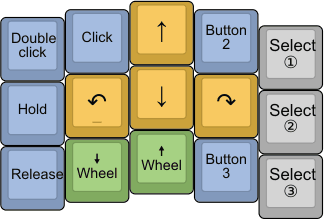
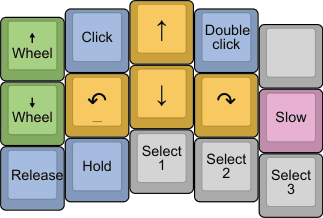
Orbital Mouse: Slow mode key OM_SLOW.

diff --git a/posts/keyboards/orbital-mouse/index.html b/posts/keyboards/orbital-mouse/index.html
@@ -4,7 +4,7 @@
   <meta http-equiv="Content-Type" content="text/html; charset=utf-8" />
   <meta http-equiv="Content-Style-Type" content="text/css" />
   <meta name="viewport" content="width=device-width,initial-scale=1">
-  <meta name="author" content="Pascal Getreuer, 2023-12-31" />
+  <meta name="author" content="Pascal Getreuer, 2023-12-31 (updated 2025-01-02)" />
   <title>Orbital Mouse</title>
   <style type="text/css">code{white-space: pre;}</style>
   <style type="text/css">
@@ -77,6 +77,7 @@ code span.wa { color: #60a0b0; font-weight: bold; font-style: italic; } /* Warni
 <link rel="preconnect" href="https://fonts.googleapis.com">
 <link rel="preconnect" href="https://fonts.gstatic.com" crossorigin>
 <link href="https://fonts.googleapis.com/css2?family=Noto+Serif:wght@350&display=swap" rel="stylesheet">
+<link rel="stylesheet" href="https://fonts.googleapis.com/css2?family=Material+Symbols+Outlined:opsz,wght,FILL,GRAD@20..48,100..700,0..1,-50..200" />
 <script type="text/javascript" src="../../../site.js" ></script>
   <script
   src="https://cdnjs.cloudflare.com/ajax/libs/mathjax/2.7.1/MathJax.js?config=TeX-AMS_CHTML-full"
@@ -93,7 +94,7 @@ code span.wa { color: #60a0b0; font-weight: bold; font-style: italic; } /* Warni
 <div id="content">
 <div id="header">
 <h1 class="title">Orbital Mouse</h1>
-<h2 class="author">Pascal Getreuer, 2023-12-31</h2>
+<h2 class="author">Pascal Getreuer, 2023-12-31 (updated 2025-01-02)</h2>
 </div>
 <div id="TOC">
 <ul>
@@ -105,10 +106,11 @@ id="toc-add-orbital-mouse-to-your-keymap">Add Orbital Mouse to your
 keymap</a></li>
 <li><a href="#keycodes" id="toc-keycodes">Keycodes</a>
 <ul>
-<li><a href="#selected-mouse-button"
-id="toc-selected-mouse-button">Selected mouse button</a></li>
+<li><a href="#slow-mode" id="toc-slow-mode">Slow mode</a></li>
 <li><a href="#mouse-wheel-controls" id="toc-mouse-wheel-controls">Mouse
 wheel controls</a></li>
+<li><a href="#selected-mouse-button"
+id="toc-selected-mouse-button">Selected mouse button</a></li>
 </ul></li>
 <li><a href="#configuration" id="toc-configuration">Configuration</a>
 <ul>
@@ -126,10 +128,10 @@ Keys feature</a> that controls the mouse using keyboard keys. You can
 then avoid switching hands between keyboard and mouse, in theory a
 substantial ergonomic advantage. In reality, this interface is pretty
 awkward.</p>
-<p>This post describes an experiment: Orbital Mouse. I find it is easier
-to control than QMK’s Mouse Keys, or at least it is more fun. To be
-clear, it still pales in comparison to real mouse or trackball
-hardware.</p>
+<p>This post describes Orbital Mouse, an alternative keyboard-based
+mouse scheme. I find it is easier to control than QMK’s Mouse Keys and
+good enough to be useful. To be clear, it still pales in comparison to
+real mouse or trackball hardware.</p>
 <h2 id="what-is-orbital-mouse">What is Orbital Mouse</h2>
 <p>Orbital Mouse is a userspace library that replaces QMK Mouse Keys.
 The pointer moves according to a heading direction. Two keys move
@@ -163,9 +165,9 @@ keymap</h2>
 layout in keymap.c. A description of the keycodes is <a
 href="#keycodes">in the next section</a>. A suggested right-handed
 layout is:</p>
-<div class="sourceCode" id="cb1"><pre class="sourceCode c"><code class="sourceCode c"><span id="cb1-1"><a href="#cb1-1" aria-hidden="true" tabindex="-1"></a>OM_DBLS<span class="op">,</span> OM_BTNS<span class="op">,</span> OM_U   <span class="op">,</span> OM_BTN2<span class="op">,</span> OM_SEL1<span class="op">,</span></span>
-<span id="cb1-2"><a href="#cb1-2" aria-hidden="true" tabindex="-1"></a>OM_HLDS<span class="op">,</span> OM_L   <span class="op">,</span> OM_D   <span class="op">,</span> OM_R   <span class="op">,</span> OM_SEL2<span class="op">,</span></span>
-<span id="cb1-3"><a href="#cb1-3" aria-hidden="true" tabindex="-1"></a>OM_RELS<span class="op">,</span> OM_W_D <span class="op">,</span> OM_W_U <span class="op">,</span> OM_BTN3<span class="op">,</span> OM_SEL3<span class="op">,</span></span></code></pre></div>
+<div class="sourceCode" id="cb1"><pre class="sourceCode c"><code class="sourceCode c"><span id="cb1-1"><a href="#cb1-1" aria-hidden="true" tabindex="-1"></a>OM_W_U <span class="op">,</span> OM_BTNS<span class="op">,</span> OM_U   <span class="op">,</span> OM_DBLS<span class="op">,</span> _______<span class="op">,</span></span>
+<span id="cb1-2"><a href="#cb1-2" aria-hidden="true" tabindex="-1"></a>OM_W_D <span class="op">,</span> OM_L   <span class="op">,</span> OM_D   <span class="op">,</span> OM_R   <span class="op">,</span> OM_SLOW<span class="op">,</span></span>
+<span id="cb1-3"><a href="#cb1-3" aria-hidden="true" tabindex="-1"></a>OM_RELS<span class="op">,</span> OM_HLDS<span class="op">,</span> OM_SEL1<span class="op">,</span> OM_SEL2<span class="op">,</span> OM_SEL3<span class="op">,</span></span></code></pre></div>
 <figure>
 <img src="layout.png" alt="A suggested right-handed layout." />
 <figcaption aria-hidden="true">A suggested right-handed
@@ -228,24 +230,8 @@ there.</p>
 <td>Steer right (clockwise).</td>
 </tr>
 <tr class="odd">
-<td><code>OM_BTNS</code></td>
-<td>Press the selected mouse button.</td>
-</tr>
-<tr class="even">
-<td><code>OM_HLDS</code></td>
-<td>Hold the selected mouse button.</td>
-</tr>
-<tr class="odd">
-<td><code>OM_RELS</code></td>
-<td>Release the selected mouse button.</td>
-</tr>
-<tr class="even">
-<td><code>OM_DBLS</code></td>
-<td>Double click the selected mouse button.</td>
-</tr>
-<tr class="odd">
-<td><code>OM_SEL</code><em>n</em></td>
-<td>Select mouse button <em>n</em>, for <em>n</em> = 1, …, 8.</td>
+<td><code>OM_SLOW</code></td>
+<td>Slow mode. Movement is slower while held.</td>
 </tr>
 <tr class="even">
 <td><code>OM_BTN</code><em>n</em></td>
@@ -272,22 +258,60 @@ there.</p>
 <p>Of course, you don’t have to use all of them in your layout, just use
 what is useful. There are many ways these keys could be arranged in a
 layout. I leave it to you to explore.</p>
-<h3 id="selected-mouse-button">Selected mouse button</h3>
-<p>Keycode <code>OM_BTNS</code> and its companions <code>OM_HLDS</code>,
-<code>OM_RELS</code>, <code>OM_DBLS</code> make use of the “selected”
-mouse button. Initially, mouse button 1 is selected. Keycodes
-<code>OM_SEL1</code> … <code>OM_SEL8</code> set the selected mouse
-button.</p>
-<p><code>OM_HLDS</code> and <code>OM_RELS</code> are useful when a mouse
-button must be held for an extended duration, like click and drag
-inputs. Tapping <code>OM_HLDS</code> holds down the selected mouse
-button. The button is held until <code>OM_RELS</code> is tapped to
-release it.</p>
+<h3 id="slow-mode">Slow mode</h3>
+<p>Keycode <code>OM_SLOW</code> momentarily activates slow mode, aka
+“sniping.” This key is useful for fine adjustments. While held,
+forward/backward movement and turning are slower.</p>
 <h3 id="mouse-wheel-controls">Mouse wheel controls</h3>
 <p>Keycodes <code>OM_W_U</code>, <code>OM_W_D</code>,
 <code>OM_W_L</code>, <code>OM_W_R</code> scroll the mouse wheel. Unlike
 cursor movement, mouse wheel navigation follows usual Cartesian
 up/down/left/right controls.</p>
+<h3 id="selected-mouse-button">Selected mouse button</h3>
+<p>While keycodes <code>OM_BTN1</code> … <code>OM_BTN8</code> may be
+used to click mouse buttons 1 through 8, the following keycodes may be
+preferred for more detailed control.</p>
+<table>
+<thead>
+<tr class="header">
+<th>Keycode</th>
+<th>Description</th>
+</tr>
+</thead>
+<tbody>
+<tr class="odd">
+<td><code>OM_SEL</code><em>n</em></td>
+<td>Select mouse button <em>n</em>, for <em>n</em> = 1, …, 8.</td>
+</tr>
+<tr class="even">
+<td><code>OM_BTNS</code></td>
+<td>Press the selected mouse button.</td>
+</tr>
+<tr class="odd">
+<td><code>OM_DBLS</code></td>
+<td>Double click the selected mouse button.</td>
+</tr>
+<tr class="even">
+<td><code>OM_HLDS</code></td>
+<td>Hold the selected mouse button.</td>
+</tr>
+<tr class="odd">
+<td><code>OM_RELS</code></td>
+<td>Release the selected mouse button.</td>
+</tr>
+</tbody>
+</table>
+<p>These keycodes work in terms of setting and using a “selected” mouse
+button. Initially, mouse button 1 is selected. Keycodes
+<code>OM_SEL1</code> … <code>OM_SEL8</code> set the selected mouse
+button. Keycode <code>OM_BTNS</code> and its companions
+<code>OM_HLDS</code>, <code>OM_RELS</code>, <code>OM_DBLS</code> make
+use of the selected mouse button.</p>
+<p><code>OM_HLDS</code> and <code>OM_RELS</code> are useful when a mouse
+button must be held for an extended duration, like click and drag
+inputs. Tapping <code>OM_HLDS</code> holds down the selected mouse
+button. The button is held until <code>OM_RELS</code> is tapped to
+release it.</p>
 <h2 id="configuration">Configuration</h2>
 <h3 id="speed-curve">Speed curve</h3>
 <p>Mouse keys must facilitate both large motions across the screen as
@@ -466,12 +490,23 @@ resizePlot();
 <h3 id="options">Options</h3>
 <p>Orbital Mouse can be further customized by tuning the following
 options in config.h.</p>
-<div class="sourceCode" id="cb6"><pre class="sourceCode c"><code class="sourceCode c"><span id="cb6-1"><a href="#cb6-1" aria-hidden="true" tabindex="-1"></a><span class="pp">#define ORBITAL_MOUSE_RADIUS        </span><span class="dv">36</span></span>
-<span id="cb6-2"><a href="#cb6-2" aria-hidden="true" tabindex="-1"></a><span class="pp">#define ORBITAL_MOUSE_WHEEL_SPEED   </span><span class="dv">0</span><span class="er">.2</span></span>
-<span id="cb6-3"><a href="#cb6-3" aria-hidden="true" tabindex="-1"></a><span class="pp">#define ORBITAL_MOUSE_DBL_DELAY_MS  </span><span class="dv">50</span></span></code></pre></div>
+<div class="sourceCode" id="cb6"><pre
+class="sourceCode cpp"><code class="sourceCode cpp"><span id="cb6-1"><a href="#cb6-1" aria-hidden="true" tabindex="-1"></a><span class="pp">#define ORBITAL_MOUSE_RADIUS            </span><span class="dv">36</span></span>
+<span id="cb6-2"><a href="#cb6-2" aria-hidden="true" tabindex="-1"></a><span class="pp">#define ORBITAL_MOUSE_SLOW_MOVE_FACTOR  </span><span class="fl">0.333</span></span>
+<span id="cb6-3"><a href="#cb6-3" aria-hidden="true" tabindex="-1"></a><span class="pp">#define ORBITAL_MOUSE_SLOW_TURN_FACTOR  </span><span class="fl">0.5</span></span>
+<span id="cb6-4"><a href="#cb6-4" aria-hidden="true" tabindex="-1"></a><span class="pp">#define ORBITAL_MOUSE_WHEEL_SPEED       </span><span class="fl">0.2</span></span>
+<span id="cb6-5"><a href="#cb6-5" aria-hidden="true" tabindex="-1"></a><span class="pp">#define ORBITAL_MOUSE_DBL_DELAY_MS      </span><span class="dv">50</span></span></code></pre></div>
 <p><code>ORBITAL_MOUSE_RADIUS</code> is the radius in pixels of the
 circle that the cursor rotates or “orbits” around when steering. Must be
 in [0, 63]. Default is <code>36</code>.</p>
+<p><code>ORBITAL_MOUSE_SLOW_MOVE_FACTOR</code> is the multiplicative
+factor applied to forward/backward movement speed when holding the
+<code>OM_SLOW</code> key. This factor stacks on top of
+<code>ORBITAL_MOUSE_SPEED_CURVE</code>. Must be in [0, 1]. Default is
+<code>0.333</code>.</p>
+<p><code>ORBITAL_MOUSE_SLOW_TURN_FACTOR</code> is the multiplicative
+factor applied to turning speed when holding the <code>OM_SLOW</code>
+key. Must be in [0, 1]. Default is <code>0.5</code>.</p>
 <p><code>ORBITAL_MOUSE_WHEEL_SPEED</code> is the mouse wheel speed in
 units per 16-ms interval, specified as a double value. Must be in [0,
 3.99]. Default is <code>0.2</code>.</p>
@@ -506,15 +541,15 @@ report to the host.</p>
 <li><p>The mouse report is created by filling a
 <code>report_mouse_t</code> struct, then passing this struct to
 <code>host_mouse_send()</code>.</p></li>
-<li><p>Orbital Mouse needs 28 keycodes. While keycodes for userspace
+<li><p>Orbital Mouse needs 29 keycodes. While keycodes for userspace
 features are conventionally allocated in the user-defined keycode range,
-that range is limited (32 keycodes). It would be unreasonable to
-allocate Orbital Mouse’s keys there. Being a Mouse Keys replacement, we
-repurpose the Mouse Keys keycodes (<code>KC_MS_U</code>,
-<code>KC_BTN1</code>, etc.) for the analogous functions in Orbital
-Mouse. We also repurpose the block of keycodes <code>UC(0x41)</code> to
-<code>UC(0x49)</code>. These keycode represent Unicode input of ASCII
-characters, which seems unlikely to be missed.</p></li>
+that range is limited. It would be unreasonable to allocate Orbital
+Mouse’s keys there. Being a Mouse Keys replacement, we repurpose the
+Mouse Keys keycodes (<code>KC_MS_U</code>, <code>KC_BTN1</code>, etc.)
+for the analogous functions in Orbital Mouse. We also repurpose the
+block of keycodes <code>UC(0x41)</code> to <code>UC(0x4a)</code>. These
+keycode represent Unicode input of ASCII characters, which seems
+unlikely to be missed.</p></li>
 <li><p>The Orbital Mouse implementation uses no floating point
 arithmetic at run time. Instead, <a
 href="https://en.wikipedia.org/wiki/Fixed-point_arithmetic">fixed point
